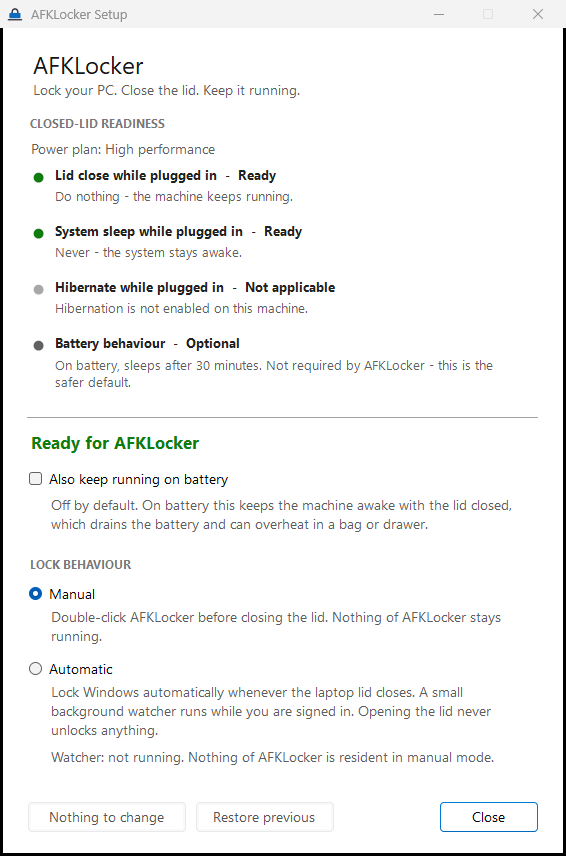
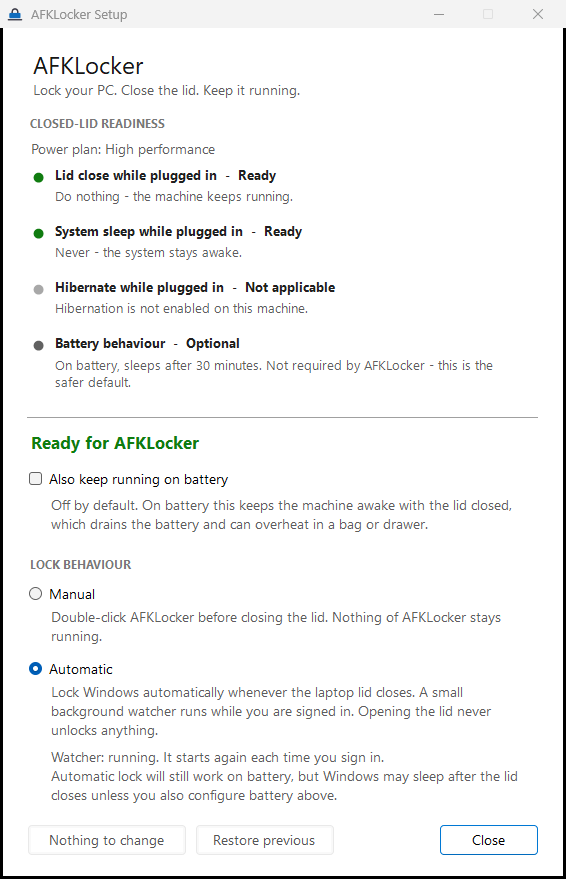
fix: report the watcher's real state after enabling automatic mode
Turning automatic mode on started the watcher correctly, then reported
"Watcher: NOT running" - because Process.Start returns as soon as the
process exists, well before the runtime is up and the mutex is claimed,
and the setup window refreshed inside that gap. The message sent the user
looking for a problem that did not exist.

Starting now waits until the watcher has actually registered, so the
status the window shows is the truth. The integration test lost its
artificial sleep so it covers this: if the race returns, the test fails.

Also fixes the same status message being clipped mid-sentence by a fixed
control height, and rewords it so the recovery step is one clear action
rather than two vague ones.

diff --git a/src/AFKLocker.Setup/SetupForm.cs b/src/AFKLocker.Setup/SetupForm.cs
@@ -148,11 +148,11 @@ namespace AFKLocker.Setup
                 "Lock Windows automatically whenever the laptop lid closes. A small background "
                 + "watcher runs while you are signed in. Opening the lid never unlocks anything.");
 
-            _watcherStatus.AutoSize = false;
-            _watcherStatus.Width = width - 20;
-            _watcherStatus.Height = 34;
+            // AutoSize with a width cap, like the other notes. A fixed height
+            // silently clipped the longer status messages mid-sentence.
+            _watcherStatus.AutoSize = true;
+            _watcherStatus.MaximumSize = new Size(width - 20, 0);
             _watcherStatus.ForeColor = Color.FromArgb(94, 94, 94);
-            _watcherStatus.Anchor = AnchorStyles.Top | AnchorStyles.Left | AnchorStyles.Right;
 
             _applyButton.Text = "Apply configuration";
             _applyButton.Size = new Size(160, 32);
@@ -348,8 +348,9 @@ namespace AFKLocker.Setup
 
             var text = new StringBuilder();
             text.Append(status.WatcherRunning
-                ? "Watcher: running, and starts when you sign in."
-                : "Watcher: NOT running, though automatic mode is on. Sign out and back in, or re-select Automatic.");
+                ? "Watcher: running. It starts again each time you sign in."
+                : "Watcher: not running, although automatic mode is on. Select Manual and then "
+                  + "Automatic again to restart it.");
 
             // The two responsibilities are separate, and saying so is the point:
             // automatic locking works regardless of the power settings, but the

diff --git a/src/AFKLocker.Core/AutoLockManager.cs b/src/AFKLocker.Core/AutoLockManager.cs
@@ -117,6 +117,9 @@ namespace AFKLocker.Core
 
         public const string WatcherFileName = "AFKLockerWatcher.exe";
 
+        /// <summary>How long to wait for a launched watcher to register itself.</summary>
+        private static readonly TimeSpan StartupTimeout = TimeSpan.FromSeconds(10);
+
         /// <summary>True when a watcher is running in this session.</summary>
         public bool IsRunning
         {
@@ -161,7 +164,24 @@ namespace AFKLocker.Core
                 WorkingDirectory = Path.GetDirectoryName(watcherPath) ?? string.Empty
             };
             Process.Start(startInfo);
-            return true;
+
+            // Process.Start returns as soon as the process exists, which is well
+            // before it has started the runtime and claimed the mutex. Without
+            // this wait, anything that checks the status immediately afterwards
+            // - the setup window refreshes right after enabling - sees "not
+            // running" and reports a failure that did not happen.
+            return WaitUntilRunning(StartupTimeout);
+        }
+
+        private static bool WaitUntilRunning(TimeSpan timeout)
+        {
+            var deadline = DateTime.UtcNow + timeout;
+            while (DateTime.UtcNow < deadline)
+            {
+                if (IsAnyRunning) return true;
+                Thread.Sleep(50);
+            }
+            return IsAnyRunning;
         }
 
         /// <summary>

diff --git a/src/AssemblyVersion.cs b/src/AssemblyVersion.cs
@@ -8,8 +8,8 @@ using System.Runtime.InteropServices;
 [assembly: AssemblyProduct("AFKLocker")]
 [assembly: AssemblyCompany("Augusto Bastos")]
 [assembly: AssemblyCopyright("Copyright (c) 2026 Augusto Bastos")]
-[assembly: AssemblyVersion("0.2.0.0")]
-[assembly: AssemblyFileVersion("0.2.0.0")]
-[assembly: AssemblyInformationalVersion("0.2.0")]
+[assembly: AssemblyVersion("0.2.1.0")]
+[assembly: AssemblyFileVersion("0.2.1.0")]
+[assembly: AssemblyInformationalVersion("0.2.1")]
 [assembly: NeutralResourcesLanguage("en")]
 [assembly: ComVisible(false)]

diff --git a/CHANGELOG.md b/CHANGELOG.md
@@ -3,6 +3,18 @@
 All notable changes to this project are documented here.
 This project follows [Semantic Versioning](https://semver.org/).
 
+## [0.2.1] - 2026-09-07
+
+### Fixed
+
+- Setup reported "Watcher: NOT running" immediately after turning automatic mode on, even though
+  the watcher had started correctly. `Process.Start` returns as soon as the process exists, well
+  before it has started the runtime and claimed its mutex, and the window refreshed in that gap.
+  Starting the watcher now waits until it has actually registered, so the status reflects reality.
+- The watcher status message was clipped mid-sentence by a fixed control height. It now grows to
+  fit, like the other notes in the window.
+- Reworded that status so the recovery step is a single clear action.
+
 ## [0.2.0] - 2026-09-06
 
 ### Added
@@ -75,6 +87,7 @@ Initial release.
   covered by tests against simulated machines.
 - Binaries are not code-signed, so SmartScreen will warn on first run.
 
+[0.2.1]: https://github.com/augbastos/AFKLocker/releases/tag/v0.2.1
 [0.2.0]: https://github.com/augbastos/AFKLocker/releases/tag/v0.2.0
 [0.1.1]: https://github.com/augbastos/AFKLocker/releases/tag/v0.1.1
 [0.1.0]: https://github.com/augbastos/AFKLocker/releases/tag/v0.1.0
